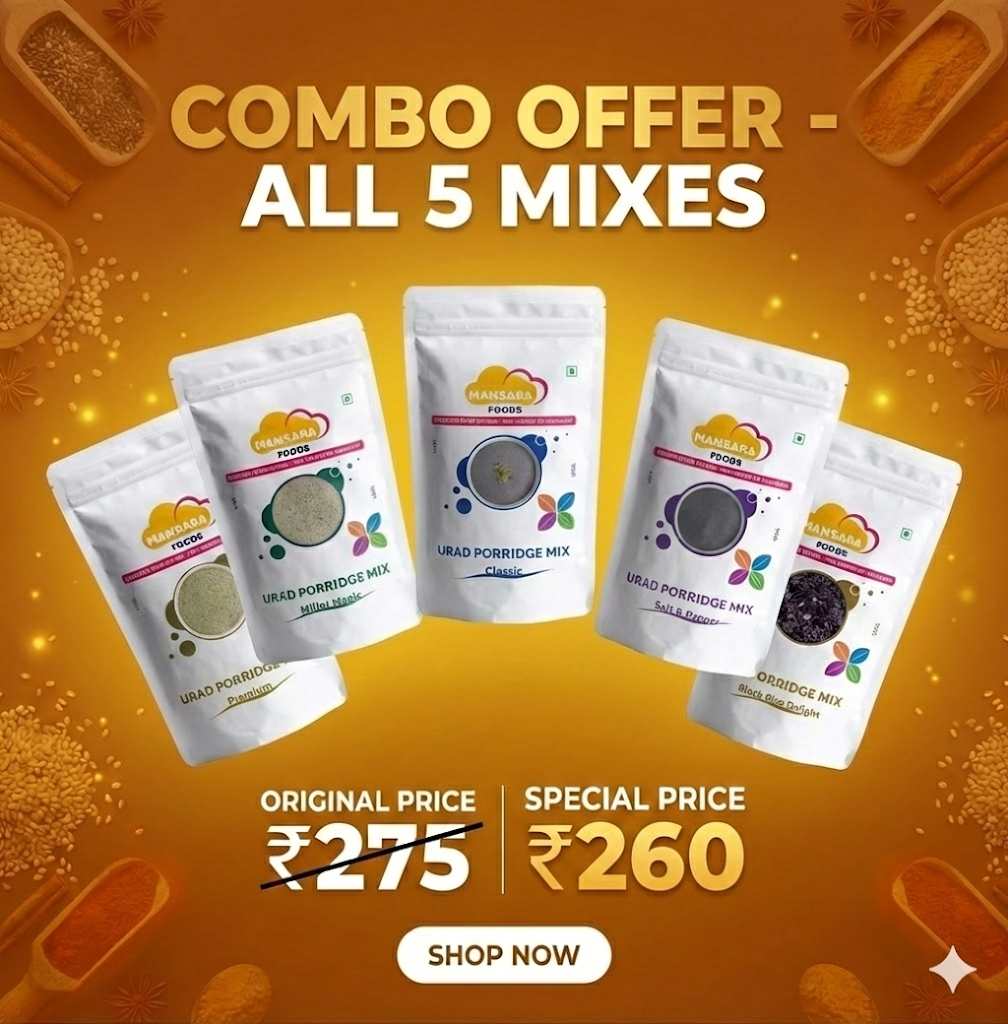
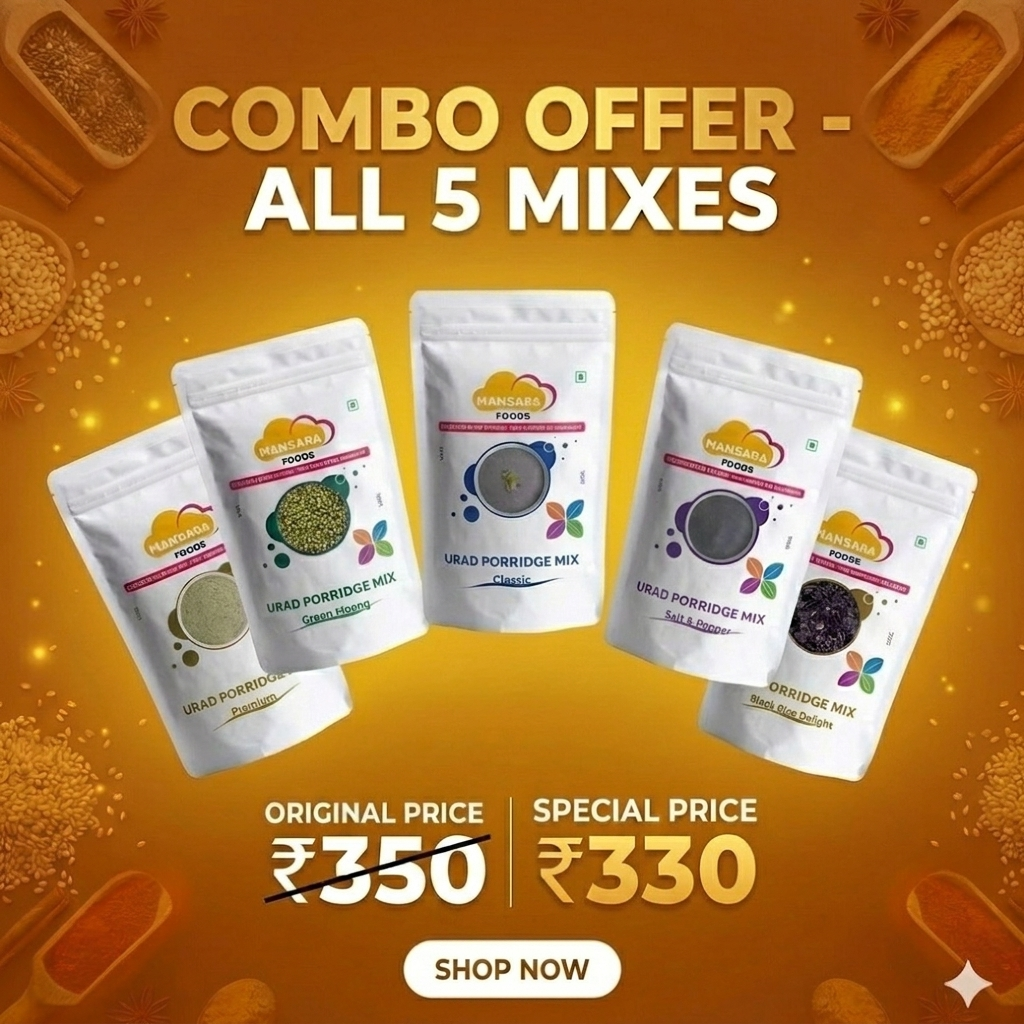
gjg

diff --git a/src/data/products.ts b/src/data/products.ts
@@ -407,9 +407,9 @@ export const products: Product[] = [
     "name": "Ultimate Wellness Combo (5 Mixes)",
     "category": "combos",
     "categoryId": "6967d5e7c88a08abbf51f09a",
-    "price": 260,
-    "offerPrice": 260,
-    "originalPrice": 260,
+    "price": 330,
+    "offerPrice": 330,
+    "originalPrice": 350,
     "image": "/product-combo-5mixes.jpg",
     "images": [],
     "description": "Experience the complete range of Mansara Foods premium porridge mixes. This pack contains all 5 of our signature blends- Urad Porridge Mix (Classic, Premium, Salt & Pepper, Millet Magic) and Black Rice Delight.",
@@ -784,8 +784,8 @@ export const combos: Combo[] = [
       "69620f7f7f9c4b0e78ddbc50",
       "69620f7f7f9c4b0e78ddbc51"
     ],
-    "originalPrice": 260,
-    "comboPrice": 260,
+    "originalPrice": 350,
+    "comboPrice": 330,
     "image": "/product-combo-5mixes.jpg",
     "description": "Experience the complete range of Mansara Foods premium porridge mixes. This pack contains all 5 of our signature blends- Urad Porridge Mix (Classic, Premium, Salt & Pepper, Millet Magic) and Black Rice Delight."
   }